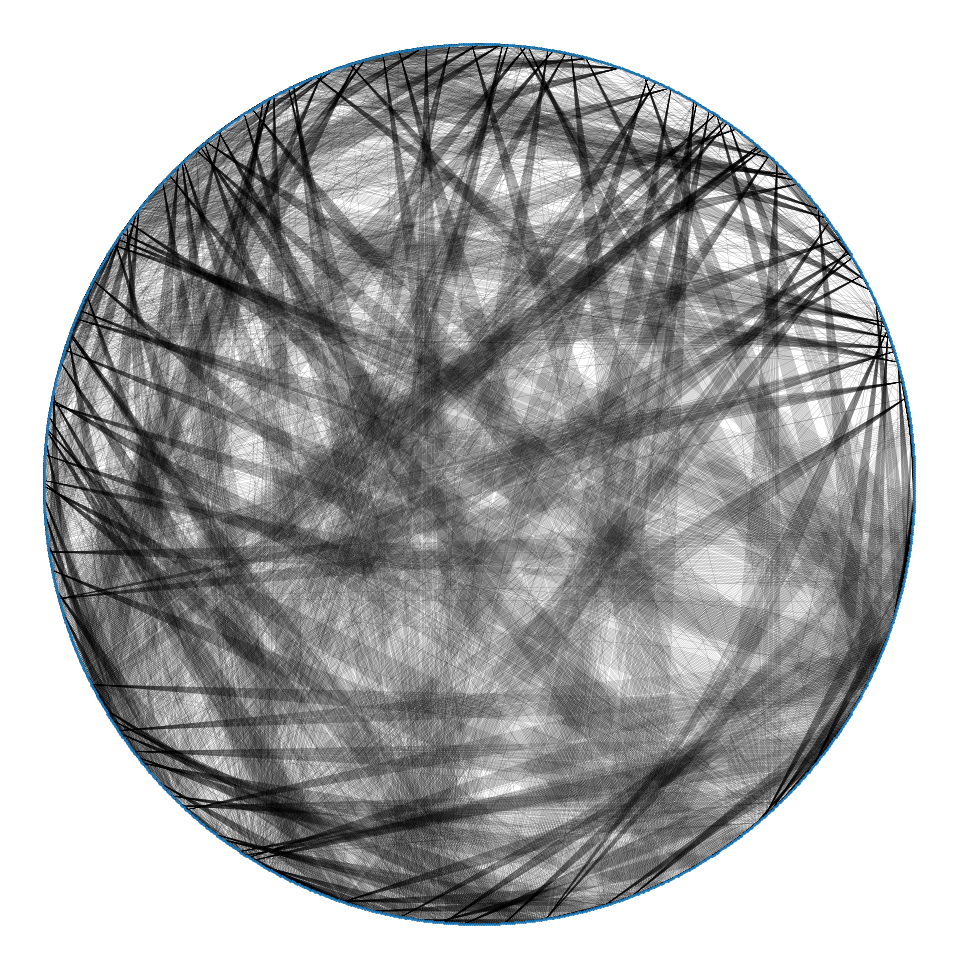
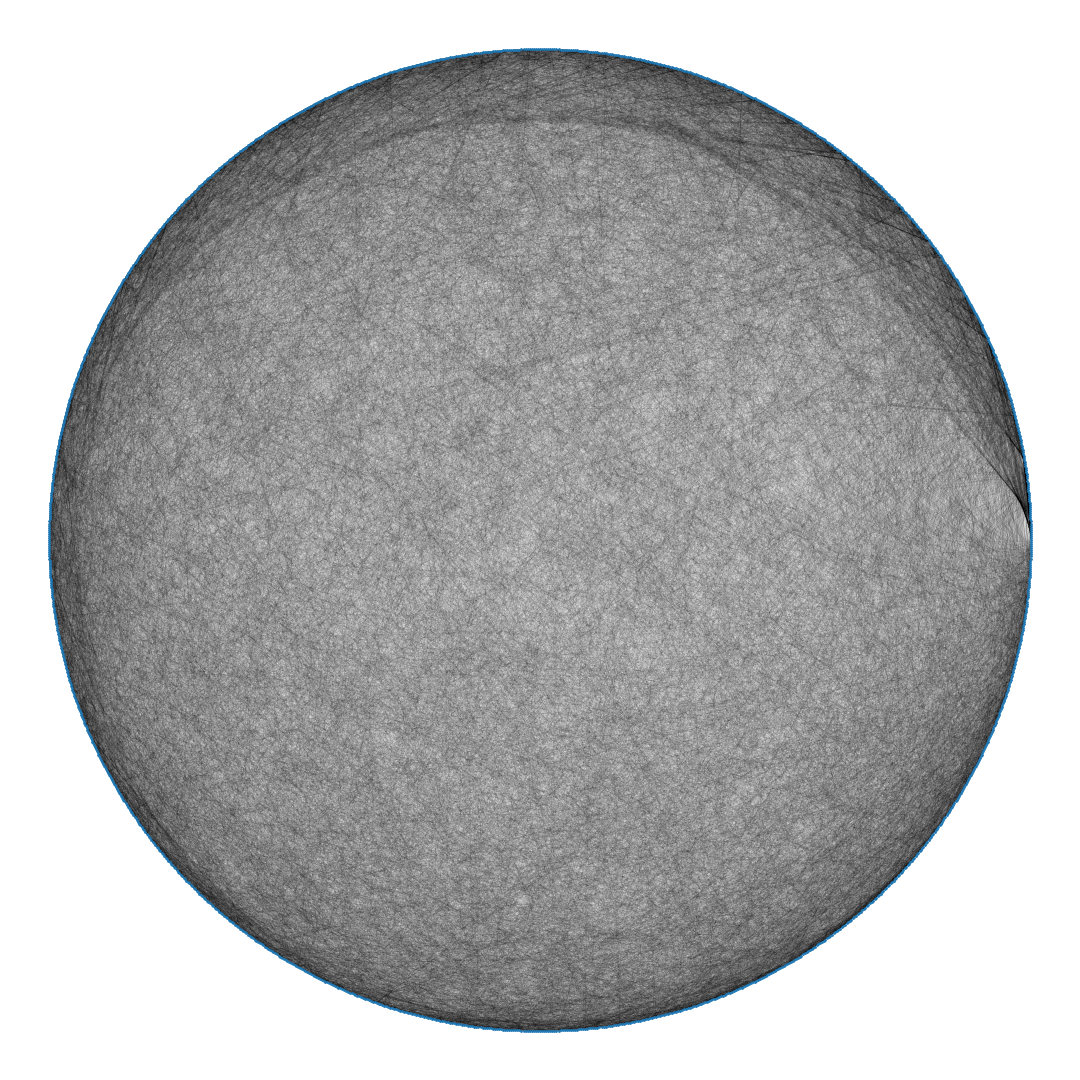
Updated graph preview from d=6 to d=3

diff --git a/graphStats.py b/graphStats.py
@@ -4,13 +4,17 @@ import matplotlib.pyplot as plt
 n, k, d = 1500, 43, 3
 
 # Read from file if exists
-path = "WattsStrogatz_n{n}-k{k}-d{d}.edgelist".format(n = n, k = k, d = d)
+path = "edgelists/WattsStrogatz_n{n}-k{k}-d{d}.edgelist".format(n = n, k = k, d = d)
 g = []
 g = nx.read_edgelist(path, nodetype = int)
 print("Read graph from '%s' with %d vertices, %d edges." % (path, g.number_of_nodes(), g.number_of_edges()))
 
 cc = nx.average_clustering(g)
-print(cc)
+print("Global Clustering Coefficient: ", cc)
 
-nx.draw_circular(g, width = 0.08, node_size = 1)
+nx.draw_circular(g, width = 0.015, node_size = 1)
+
+figmng = plt.get_current_fig_manager()
+figmng.resize(1080, 1080)
+
 plt.show()

diff --git a/README.md b/README.md
@@ -34,8 +34,12 @@ In the command prompt or terminal, in the root of the local repository, type the
 To run the simulation and get graph outputs, use `model.py`:  
 `py model.py`  
 
-To get statistics about a graph file, modify and run `graphStats.py`:  
+To get statistics and a preview of a graph file, modify and run `graphStats.py`:  
 `py graphStats.py`
+
+## pretty
+![Strogatz-Watts Graph](report/figures/ws/graph.png)
+Strogatz-Watts Graph with 1500 nodes, mean vertex degree 43, and diameter 3.
 
 ---
 ## Authors
